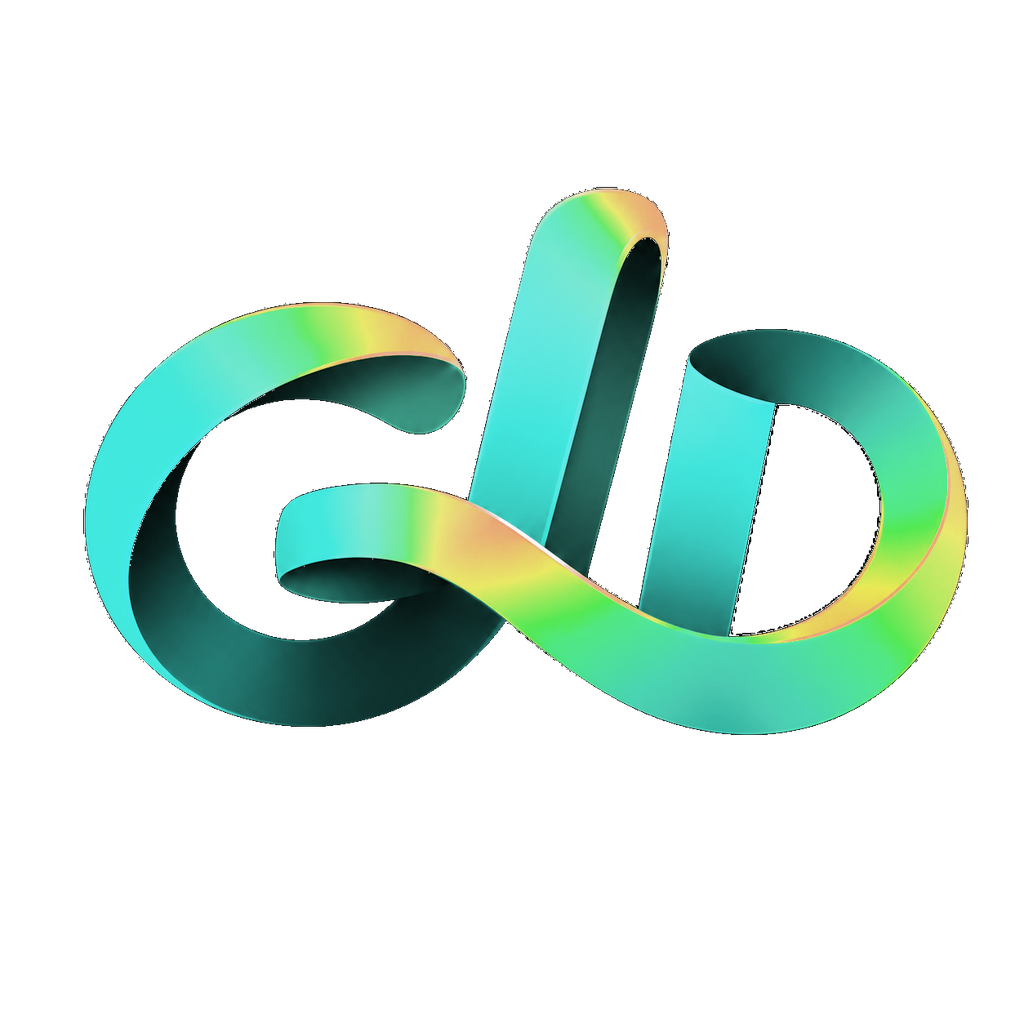
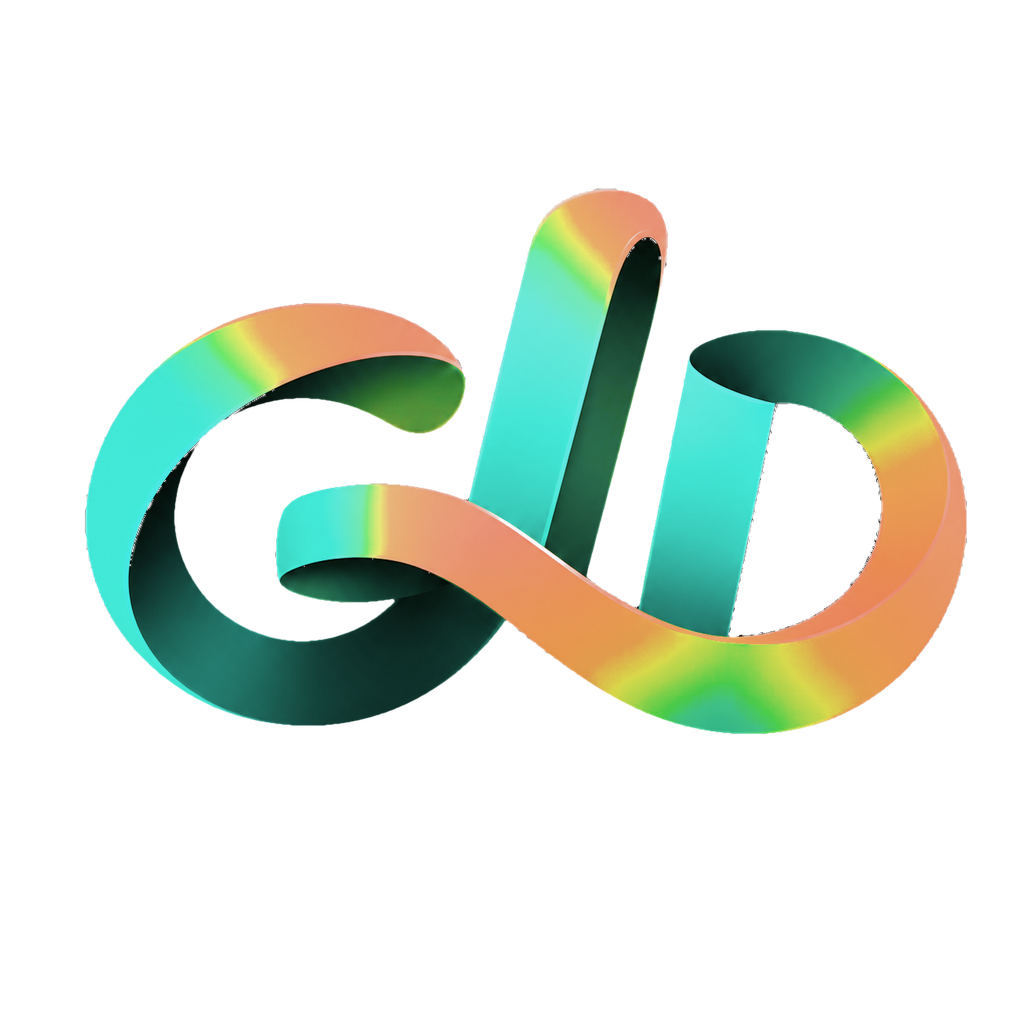
fix: remove the dark fringe on light backgrounds and warm the mark
Two problems with the cutout, both visible only once it sat on a light page.

The fringe was a matting artifact, not a colour bug. The source was rendered
on black, so its antialiased edge pixels genuinely are the mark blended with
black — a binary cutout keeps them and they read as an outline drawn around
the logo. The exact fix, solving alpha from the black and white renders
together, needs those two to be pixel-aligned; they are separate generations
and only 28% of interior pixels match, so that route is closed. Instead the
matte is eroded past the contaminated ring and feathered, by blurring the
binary mask and remapping above 0.5 — the threshold pulls the edge inward,
the ramp softens what is left. Dark edge pixels are down to 13% of an already
small edge band, at low alpha.

The mark was also reading as mostly teal with a little amber. Moving the warm
stop from 268 down to 258 in the source range captures a much larger share of
the mark's mass, since the violet band is where the pixels actually are.
Balance is now 30% amber, 12% green, 58% teal, against 9% amber before.

diff --git a/scripts/recolour-mark.js b/scripts/recolour-mark.js
@@ -33,12 +33,12 @@ const OUT_DIR = process.argv[3];
  * site: teal dominant, amber on the highlights.
  */
 const HUE_STOPS = [
-  [205, 180], // cyan edge     -> light teal
-  [228, 173], // the blue peak -> sits on --platform (172-175)
-  [248, 165], // violet-blue   -> still teal
-  [266, 140], // violet        -> green, deliberately a narrow passage
-  [282, 60], //  magenta       -> through gold quickly
-  [300, 18], //  hot magenta   -> sits on --grow (17-20)
+  [205, 178], // cyan edge     -> light teal
+  [222, 172], // deep blue     -> sits on --platform (172-175)
+  [236, 152], // blue-violet   -> teal-green
+  [247, 78], //  violet        -> green, kept to a narrow passage
+  [258, 32], //  violet-magenta-> amber starts here. Moving this stop down the
+  [300, 12], //  hot magenta      source range is what buys the extra warmth.
 ];
 
 // The source averages 0.89 saturation. Nothing else on this site is that loud.
@@ -48,6 +48,12 @@ const SAT_SCALE = 0.72;
 const VALUE_KNEE = 0.8;
 
 const BG_MAX_CHANNEL = 10;
+
+// Matte erosion. The threshold above 0.5 pulls the edge inward past the
+// black-contaminated ring; the softness is the width of the remaining ramp.
+const EDGE_RADIUS = 2;
+const EDGE_THRESHOLD = 0.66;
+const EDGE_SOFTNESS = 0.3;
 
 function rgbToHsv(r, g, b) {
   r /= 255;
@@ -107,6 +113,37 @@ function tameValue(v) {
   return v <= VALUE_KNEE ? v : VALUE_KNEE + (v - VALUE_KNEE) * 0.6;
 }
 
+/**
+ * Separable box blur over a float array. Used to turn a hard mask into a soft
+ * one so the matte can be eroded and feathered in a single remap.
+ */
+function boxBlur(src, w, h, r) {
+  const tmp = new Float32Array(src.length);
+  const out = new Float32Array(src.length);
+  const span = r * 2 + 1;
+  for (let y = 0; y < h; y++) {
+    for (let x = 0; x < w; x++) {
+      let sum = 0;
+      for (let k = -r; k <= r; k++) {
+        const xx = Math.min(w - 1, Math.max(0, x + k));
+        sum += src[y * w + xx];
+      }
+      tmp[y * w + x] = sum / span;
+    }
+  }
+  for (let x = 0; x < w; x++) {
+    for (let y = 0; y < h; y++) {
+      let sum = 0;
+      for (let k = -r; k <= r; k++) {
+        const yy = Math.min(h - 1, Math.max(0, y + k));
+        sum += tmp[yy * w + x];
+      }
+      out[y * w + x] = sum / span;
+    }
+  }
+  return out;
+}
+
 /** Border-connected flood fill. Returns a Uint8Array mask, 1 = background. */
 function backgroundMask(data, w, h, ch) {
   const mask = new Uint8Array(w * h);
@@ -148,6 +185,28 @@ function backgroundMask(data, w, h, ch) {
   let bgCount = 0;
   for (let i = 0; i < mask.length; i++) bgCount += mask[i];
 
+  /*
+   * Edge decontamination.
+   *
+   * The source was rendered on black, so its antialiased edge pixels are the
+   * mark blended with black — genuinely dark. A binary cutout keeps them, and
+   * on a light page that ring reads as an outline drawn around the logo.
+   *
+   * The two-background trick that would recover alpha exactly needs the black
+   * and white renders to be pixel-aligned, and they are separate generations,
+   * so instead the matte is eroded past the contaminated ring and feathered.
+   * Blurring the binary mask and remapping above 0.5 does both at once: the
+   * threshold pulls the edge inward, the ramp softens what is left.
+   */
+  const subject = new Float32Array(w * h);
+  for (let p = 0; p < w * h; p++) {
+    const i = p * ch;
+    const enclosedBg =
+      !mask[p] && Math.max(data[i], data[i + 1], data[i + 2]) < 4;
+    subject[p] = mask[p] || enclosedBg ? 0 : 1;
+  }
+  const soft = boxBlur(subject, w, h, EDGE_RADIUS);
+
   const out = Buffer.from(data);
   let enclosed = 0;
   for (let p = 0; p < w * h; p++) {
@@ -170,6 +229,17 @@ function backgroundMask(data, w, h, ch) {
       enclosed++;
       continue;
     }
+
+    // Erode past the dark ring, then feather what remains.
+    const a = Math.max(
+      0,
+      Math.min(1, (soft[p] - EDGE_THRESHOLD) / EDGE_SOFTNESS),
+    );
+    if (a <= 0) {
+      out[i + 3] = 0;
+      continue;
+    }
+    out[i + 3] = Math.round(a * 255);
     const [hue, s, v] = rgbToHsv(data[i], data[i + 1], data[i + 2]);
     // Leave near-greys alone; recolouring them only muddies the highlights.
     if (s < 0.08) continue;
